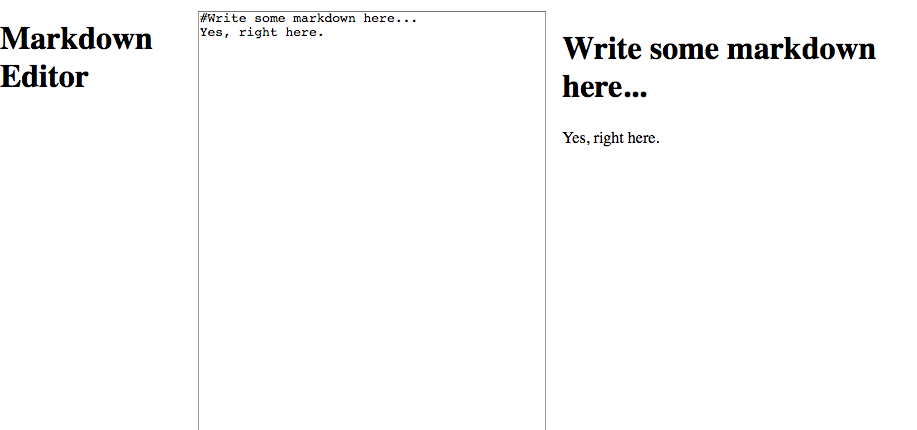
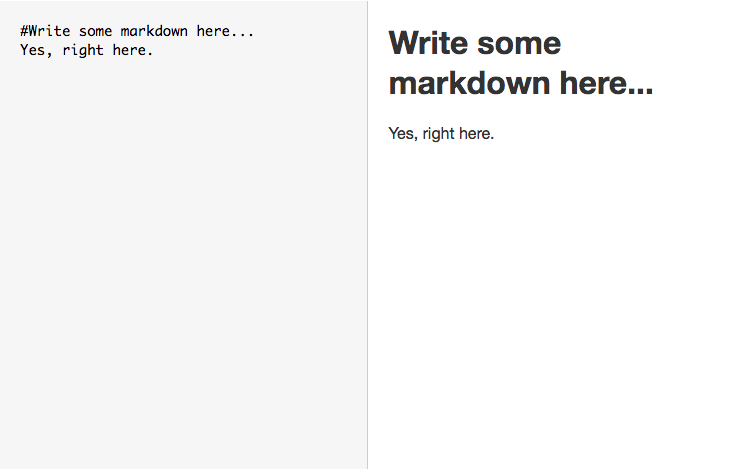
Modernize UI

diff --git a/resources/public/css/style.css b/resources/public/css/style.css
@@ -1,14 +1,39 @@
 .container {
+    height: 100%;
     padding: 10px 10px 10px 10px;
 }
 
-.row {
-    display: flex;
-    height: 95vh;
-    width: 100%;
+html, body, #editor {
+  margin: 0;
+  height: 100%;
+  font-family: 'Helvetica Neue', Arial, sans-serif;
+  color: #333;
 }
 
-.column {
-    width: 50%;
+#app {
+    height: 100%;
 }
 
+textarea, #editor div {
+  display: inline-block;
+  width: 49%;
+  height: 100%;
+  vertical-align: top;
+  box-sizing: border-box;
+  padding: 0 20px;
+}
+
+textarea {
+  border: none;
+  border-right: 1px solid #ccc;
+  resize: none;
+  outline: none;
+  background-color: #f6f6f6;
+  font-size: 14px;
+  font-family: 'Monaco', courier, monospace;
+  padding: 20px;
+}
+
+code {
+  color: #f66;
+}
